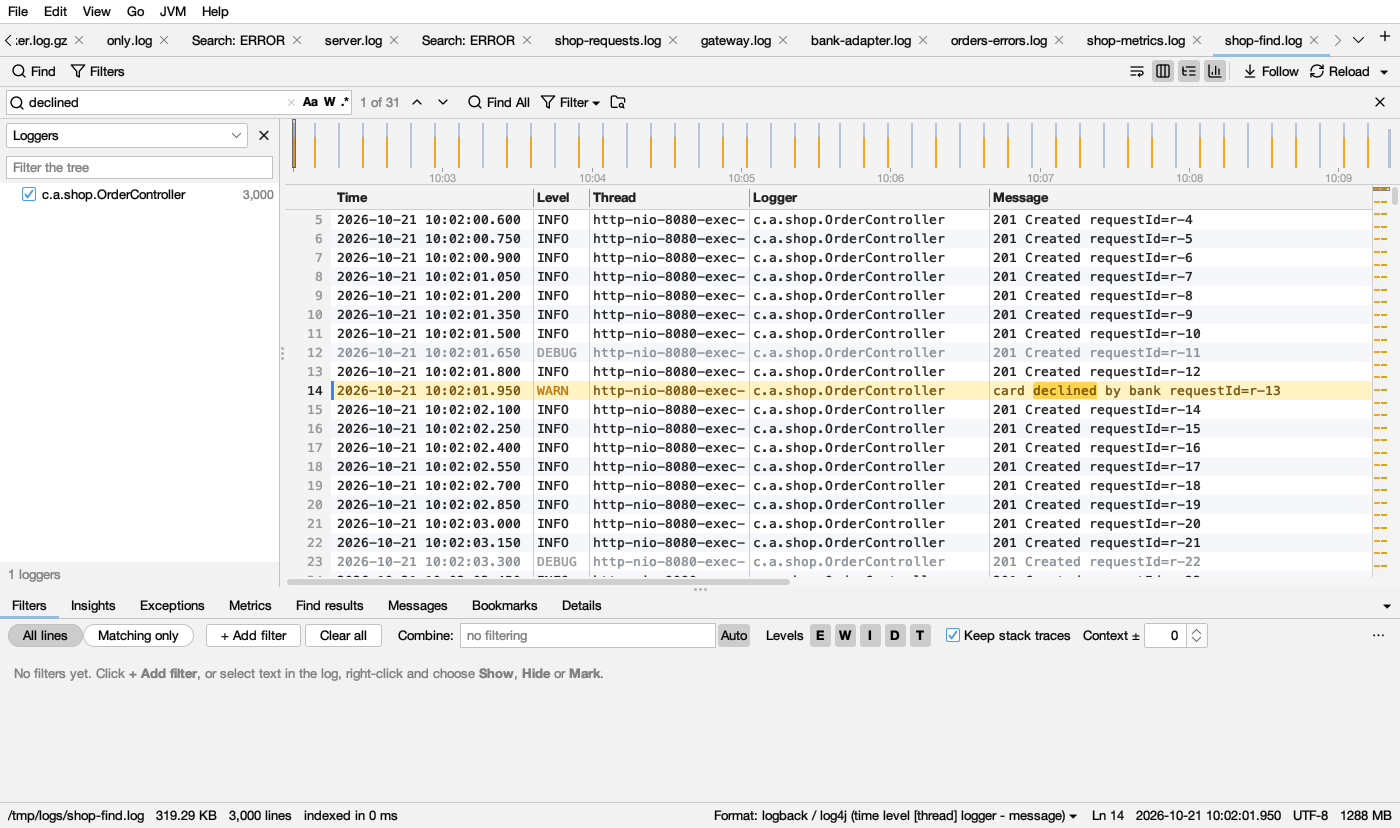
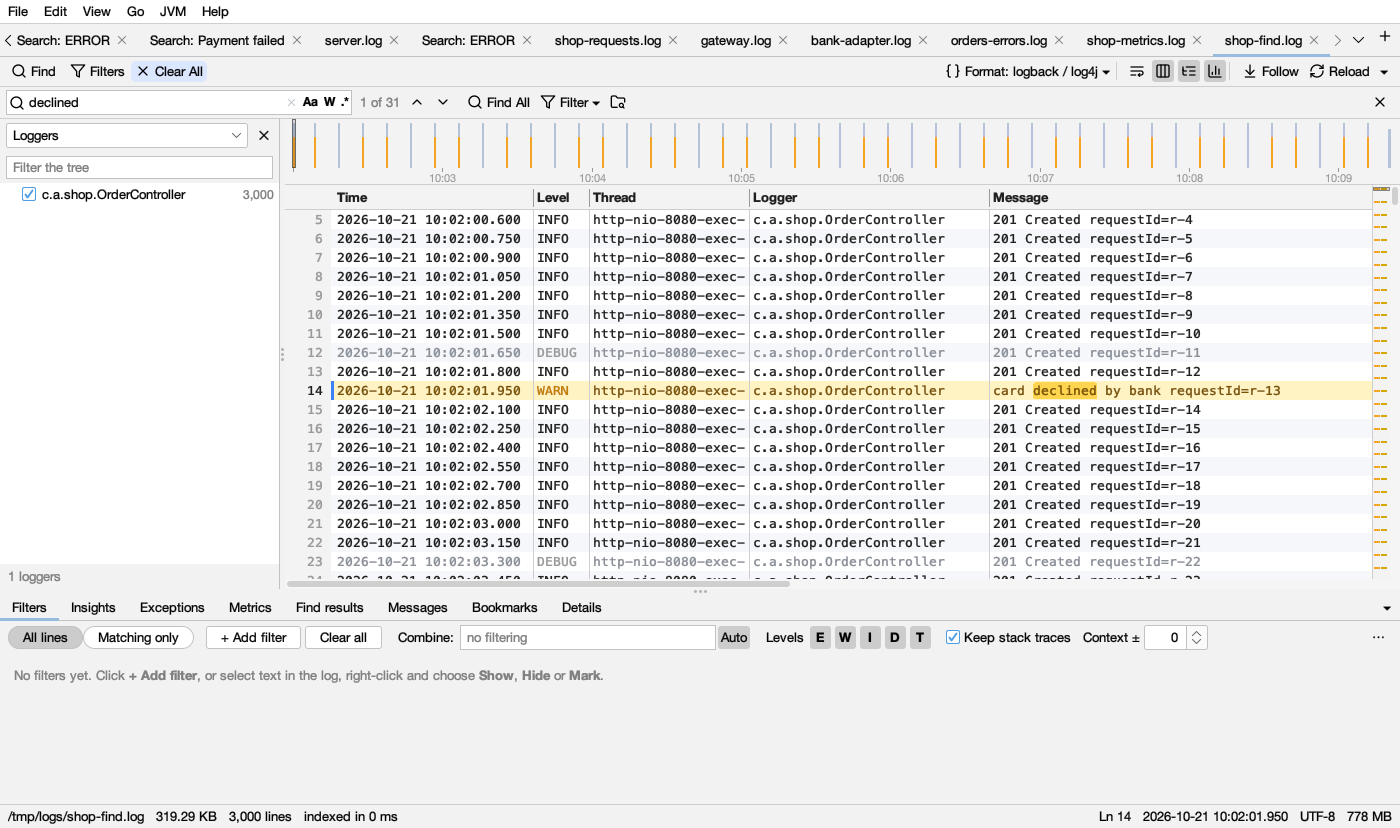
Guide, README and changelog: format in the log's bar, CSV header, column filters and metrics
Screenshots refreshed from the visual tests (the format button moved), plus
column-filters.png and csv-metrics.png.

diff --git a/README.md b/README.md
@@ -21,7 +21,7 @@
 - **Columns.** Time, level, thread, logger and message are parsed automatically. JSON logs and CSV files work too, with a pretty-printed details view.
 - **Your own log formats.** Drop a log file and Logsift works out its layout, or paste your log4j, logback, java.util.logging or Python logging setup (even a whole `logback.xml` or `log4j2.xml`: each layout in it becomes a format). A live preview shows how lines split into columns.
 - **Exceptions by root cause.** Java stack traces and Python tracebacks grouped by what went wrong and where in your own code: "60 × NullPointerException at PriceCalculator.discount", with the stack, what wrapped it, and each time it happened.
-- **Metrics from the messages.** How long things that start and end took ("Started job sync-7" … "Finished job sync-7"), the ones that never ended, and the numbers messages report (`placed in 345 ms`, `queue size=42`) as charts over time, with the slowest lines a click away.
+- **Metrics from the messages and columns.** How long things that start and end took ("Started job sync-7" … "Finished job sync-7"), the ones that never ended, the numbers messages report (`placed in 345 ms`, `queue size=42`) and columns of numbers (`duration_ms` in a CSV) as charts over time, with the slowest lines a click away.
 - **Follow a request.** Right-click a line with a trace or request ID (or select any text) → **Follow**: the request's lines in order, across threads, open logs or a whole folder (zips too), with the time between them and the longest wait marked.
 - **Tree of loggers.** Loggers (or threads, components, hosts) as a package tree beside the log, with line counts. Uncheck a branch to hide its lines, double-click one to see only it.
 - **Zips, .gz files and the web.** Drop a `.zip` and it opens as a tab with its folders and files (zips inside it too); open any of them as a log, with everything a log has, merge them by time, or search them all. A `.gz` opens directly. Open logs from web addresses, or download several and search them together.
@@ -199,7 +199,7 @@ When Logsift doesn't know a log's layout, the Columns view says so and offers **
 2. **Paste how your program logs:** a log4j, Log4j 2 or logback pattern such as `%d{HH:mm:ss.SSS} [%thread] %-5level %logger{36} - %msg%n`, a whole `logback.xml`, `log4j2.xml` or `log4j.properties`, a `log4j2.properties`, `.yaml` or `.json`, Spring Boot's layout, a Log4j 1.x XML config, a java.util.logging `logging.properties` (`SimpleFormatter.format`), or Python logging: a format such as `%(asctime)s %(levelname)s %(name)s: %(message)s`, a `logging.conf` or dictConfig (with `datefmt`), or `basicConfig(…)` in code. Dropping the config file works too. Properties the pattern uses (`${LOG_PATTERN}`, `${sys:PID}`, `${env:X:-default}`) are filled in from the same file. When the config has several appenders or formatters with different layouts, each becomes a format, named after its appender, and each log uses the one its lines fit.
 3. **Write the pattern** yourself: `{time} {level} [{thread}] {logger} - {message}`. Columns go in braces and everything else is matched as written. `{time}` takes a timestamp and `{level}` a level word (also `E`, `ERR`, `warning`…). `{*}` skips a part, and other columns take everything up to the next character. A regex with named groups like `(?<level>…)` works too.
 
-A preview shows sample lines split into columns, with the times as they are read. Lines that don't fit continue the entry above (stack traces). A format is used when most of a log's lines fit it, or always for the file names you give (`app*.log; *.trace`). The status bar shows the format each log is read with (**Format: …**). If Logsift picked the wrong one, click it (or use **View → Log Format**) to choose another for that file, which is remembered, or to show it as plain text. Levels in your format's level column drive the colors, the error marks and the **E W I D T** chips. Formats are saved in `~/.logsift/formats.properties`, so you can copy them to another computer.
+A preview shows sample lines split into columns, with the times as they are read. Lines that don't fit continue the entry above (stack traces). A format is used when most of a log's lines fit it, or always for the file names you give (`app*.log; *.trace`). The log's bar shows the format each log is read with (**Format: …▾**, on the right). If Logsift picked the wrong one, click it (or use **View → Log Format**) to choose another for that file, which is remembered, or to show it as plain text. Levels in your format's level column drive the colors, the error marks and the **E W I D T** chips. Formats are saved in `~/.logsift/formats.properties`, so you can copy them to another computer.
 
 ## Insights
 
@@ -231,6 +231,7 @@ The **Metrics** tab shows what the log measures, without any setup:
 
 - **Things that start and end:** message kinds that open and close something (*Started job sync-7* … *Finished job sync-7*, *Processing request r-12* … *Completed request r-12*, *Begin import* … *Import complete*) are found by their words. Their lines are matched by the value they share (the job, the request), or else by thread. For each: how many, the median, 95th percentile and longest time, and the ones that **never ended**, which are often what hung.
 - **Numbers in messages:** a number with a unit after it (`ms`, `s`, `MB`, `%`, `rows`) or a word like *took*, *size*, *latency* or *queue* before it is a measurement: *order … placed in **#** ms*, *queue size=**#***. Order numbers and IDs are not. Durations are in milliseconds and sizes in bytes, whatever unit each line used (`1.5s`, `300ms`).
+- **Columns:** in a CSV file, a JSON log or a layout with columns, a column of numbers is a measurement (`duration_ms`, `bytes`, the access log's `size`; units from the value or the name), and a column with a few values (`status`, `host`) gives how many rows have each value per minute (or per second, per hour, as fits the log).
 - Select one for a **chart over time**: every value as a dot (orange when far above the median), the 95th percentile as a line, and things that never ended as red marks along the top. Hover for a value, click a dot to go to its line. Beside it, the lines that never ended and the slowest or largest ones.
 - **Insights** reports what never ended (*1 job started and never ended*) and when a measurement was far above usual (*High: order … placed in # ms, 10:15:00 – 10:16:59 · median 4.1 s then, usually 125 ms*), with **Show these minutes** and **Show in Metrics**. For files over 512 MB this is worked out when the Metrics tab is opened.
 
@@ -416,7 +417,7 @@ Then: **Heap** (in use before and after each collection, with the heap size and 
 
 ## CSV files
 
-A `.csv` or `.tsv` file is read as a table: its header row names the columns and each row is split into them, by comma, semicolon, tab or `|` (whichever the file uses), with quoted fields (`"a, b"`, `""` for a quote) handled. Columns named like a time, level, thread, logger or message (`timestamp`, `severity`, `msg`, …) are used as such: the timeline uses the time column, and levels color the rows. Other columns keep their names and appear in the tree beside the log, where unchecking a value hides its rows. Files with other names are read as CSV when they clearly are one (a header of names, then rows with the same number of fields), or choose **CSV** in the status bar's format menu. A quoted field over several lines is shown as continuing its row.
+A `.csv` or `.tsv` file is read as a table: its header row names the columns and each row is split into them, by comma, semicolon, tab or `|` (whichever the file uses), with quoted fields (`"a, b"`, `""` for a quote) handled. Columns named like a time, level, thread, logger or message (`timestamp`, `severity`, `msg`, …) are used as such: the timeline uses the time column, and levels color the rows. Other columns keep their names and appear in the tree beside the log, where unchecking a value hides its rows. Files with other names are read as CSV when they clearly are one (a header of names, then rows with the same number of fields), or choose **CSV** in **Format: …▾** in the log's bar. A quoted field over several lines is shown as continuing its row. In the Columns view the header row isn't repeated as a row: its names are the column titles (line numbers stay those of the file). Right-click a value for **Show Only Rows Where Host = web-1** (a filter on that column), and the Metrics tab charts the columns of numbers and how many rows each host or status has over time.
 
 ## JSON logs
 
@@ -466,6 +467,7 @@ The **Filters** panel below the log holds any number of filters (up to 26). Each
 
 - a letter (A, B, C, …) for use in the formula
 - an action: **Show** keeps matching lines, **Hide** removes them, **Mark** only colors them
+- where to look: the whole line, or one column of the log's format (CSV, JSON lines, a layout); a column's value can **contain** the text, **=** be it, or be a number **>** above or **<** below it (`1.5 s` is more than `800 ms`)
 - the text to match, with the same `Aa` / `W` / `.*` options as Find
 - a line color, a live count of matching lines, and ▲ ▼ to step through its matches
 
@@ -479,7 +481,7 @@ The **Filters** panel below the log holds any number of filters (up to 26). Each
 
 **Clear All** in the log's bar (lit while anything is set) goes back to the whole log: it removes every filter, turns all levels back on, clears the time range and what the tree hides, and closes the find bar and the Find results. **Clear all** in Filters (next to + Add filter) clears only the filters. In Find results, **Close** removes the selected search, **Close all** removes every one, and Shift+Esc closes the selected search.
 
-Quick ways to add filters: select text in the log, right-click, then choose **Show / Hide / Mark lines with "…"**. Filter sets can be saved and loaded (the ⋯ menu), and filters keep working while the file grows.
+Quick ways to add filters: select text in the log, right-click, then choose **Show / Hide / Mark lines with "…"**; in the Columns view, right-click a value for **Show Only Rows Where Host = web-1** or **Hide Rows Where …**, or a column title for **Filter by …**. Filter sets can be saved and loaded (the ⋯ menu), and filters keep working while the file grows.
 
 **Several searches at once:** each Find All is added to the top of the Find results window and opens there, while earlier searches fold to a header line (“ERROR” — 1,234 lines) and stay available. Click a header (or its chevron) to fold or open it; with the keyboard, Enter, Left and Right do the same. **Fold all** / **Unfold all** do every search. Every search has its own color in the log and on the highlight bar. Running a search you already have moves it back to the top. F3 / Shift+F3 step through the selected search's hits.
 

diff --git a/docs/guide/log-view.md b/docs/guide/log-view.md
@@ -10,7 +10,7 @@ description: Lines and columns, level colours, line numbers and marks, the highl
 
 From top to bottom, a log tab has:
 
-- **The log's bar:** **Find**, **Filters**, **Clear All** and the chips of the filters that are on, on the left; the line count and the view buttons on the right.
+- **The log's bar:** **Find**, **Filters**, **Clear All** and the chips of the filters that are on, on the left; the line count, the format and the view buttons on the right.
 - **The [timeline](timeline.md):** how much was logged over time.
 - **The lines**, with line numbers on the left and the **highlight bar** on the right. A **tree of loggers** can sit on the left.
 - **The bottom panel** with its tabs: Filters, Insights, Exceptions, Metrics, Find results, Messages, Bookmarks, Details (and Request once you follow one). **Ctrl+J** (⌘J), the ▾ button, or a double-click on a tab folds or opens it.
@@ -49,7 +49,7 @@ In the **Columns** view the row keeps these colours, and the **Level** cell is c
 
 Drag to select. Double-click selects a word; triple-click, or a click on the line number, the whole line. Shift+click extends. **Ctrl+C** copies (with nothing selected, the current line). **Ctrl+A** selects all.
 
-Right-click a line for: Copy, **Bookmark This Line**, **Follow** its request ID, **Open … in Editor** (on a stack line), **Show Thread "…" in Threads**, **Show Only Lines of Thread "…"**, **Open the Heap Dump** (on an out-of-memory line); with text selected, **Find All**, **Show / Hide / Mark lines with "…"**.
+Right-click a line for: Copy, **Bookmark This Line**, **Follow** its request ID, **Open … in Editor** (on a stack line), **Show Thread "…" in Threads**, **Show Only Lines of Thread "…"**, **Open the Heap Dump** (on an out-of-memory line); with text selected, **Find All**, **Show / Hide / Mark lines with "…"**. In the Columns view, right-click a value for **Show Only Rows Where Host = web-1** and **Hide Rows Where Host = web-1** (see [Filters on a column](filters.md#filters-on-a-column)).
 
 ## The highlight bar
 
@@ -69,6 +69,7 @@ Right: the count (*1,234 of 50,000 lines*), then:
 
 | Button | Does |
 |---|---|
+| **Format: …▾** | How the lines are read, for example *Format: CSV ▾* or *Format: logback / log4j ▾*. Click it to choose another format for this file (it is remembered), **Plain text**, **New Format from This Log…** or **Edit Log Formats…**. The same list is in **View → Log Format**. In a narrow window it shows just the name (*CSV ▾*); hover it for the whole name |
 | Wrap | Wrap long lines (Alt+Z, ⌥Z) |
 | Columns | Show lines as columns (Ctrl+Shift+K) |
 | Tree | The tree of loggers (Ctrl+Shift+B) |
@@ -83,7 +84,7 @@ These apply to this log, and your last choice becomes the default for the next l
 
 Left: the file (or `sftp user@host:/path`, or the web address), its size, the number of lines and how fast it was indexed. Then, when it applies: *• 1.2 MB more on disk: Reload (F5) to see it*, *• the file was replaced on disk*, or the state of a remote connection (*⚡ …*). A blue button appears when a new version of Logsift is out.
 
-Right: **Format: …▾** (how lines are read; click it if it is wrong), *MATCHING ONLY*, the line number (*Ln 1,234*), the current line's time, *FOLLOW*, the text encoding, and the memory Logsift uses.
+Right: *MATCHING ONLY*, the line number (*Ln 1,234*), the current line's time, *FOLLOW*, the text encoding, and the memory Logsift uses.
 
 ## Columns
 
@@ -92,7 +93,8 @@ Right: **Format: …▾** (how lines are read; click it if it is wrong), *MATCHI
 ![Parsed columns with top messages below](../screenshots/columns-and-messages.png)
 
 - Drag a header edge to resize a column.
-- Right-click a header: **Count Values in …** (every value with its number of lines; double-click one, or **Show Only**, to see its lines, or **Hide** them), **Hide … Column**, tick columns on and off, **Show All Columns**. *N columns hidden ▾* at the right of the header shows which; hidden columns are remembered for each format.
+- Right-click a header: **Count Values in …** (every value with its number of lines; double-click one, or **Show Only**, to see its rows, or **Hide** them), **Filter by …** (a filter that looks only in that column, see [Filters on a column](filters.md#filters-on-a-column)), **Hide … Column**, tick columns on and off, **Show All Columns**.
+- Right-click a value: **Show Only Rows Where Host = web-1** or **Hide Rows Where Host = web-1**. *N columns hidden ▾* at the right of the header shows which; hidden columns are remembered for each format.
 - When Logsift doesn't know the layout, it says *"Logsift doesn't know this log's layout, so it can't show it as columns"* and offers **Define Its Format…** (see [Settings](settings.md#log-formats)).
 
 ## JSON logs
@@ -113,7 +115,11 @@ The **Details** tab shows the current entry in full (a line with its stack trace
 
 ## CSV files
 
-A `.csv` or `.tsv` file is read as a table: the header row names the columns, and rows are split by comma, semicolon, tab or `|`, with quoted fields handled. Columns named like a time, level, thread, logger or message (`timestamp`, `severity`, `msg`…) are used as such: the timeline uses the time column, and levels colour the rows. Other columns appear in the tree beside the log. Other files are read as CSV when they clearly are one, or choose **CSV** in the status bar's format menu.
+A `.csv` or `.tsv` file is read as a table: the header row names the columns, and rows are split by comma, semicolon, tab or `|`, with quoted fields handled. Columns named like a time, level, thread, logger or message (`timestamp`, `severity`, `msg`…) are used as such: the timeline uses the time column, and levels colour the rows. Other columns appear in the tree beside the log. Other files are read as CSV when they clearly are one, or choose **CSV** in **Format: …▾** in the log's bar.
+
+- In the Columns view the header row isn't shown as a row: its names are the column titles. Line numbers are those of the file, so the first row is line 2. Hover a title to see the name in the file when Logsift uses its own (*timestamp* is **Time**). The plain view shows the header line as it is.
+- Right-click a value to show only (or hide) the rows with it, or a column title for **Filter by …**: see [Filters on a column](filters.md#filters-on-a-column).
+- The [Metrics](metrics.md#columns) tab charts the columns of numbers, and how many rows each value of a column like *host* or *status* has over time.
 
 ![A CSV file from inside a zip, shown as columns, with its hosts in the tree](../screenshots/csv.png)
 

diff --git a/docs/guide/metrics.md b/docs/guide/metrics.md
@@ -1,7 +1,7 @@
 ---
 layout: guide
 title: Metrics
-description: The Metrics tab: how long things that start and end took, things that never ended, numbers in messages, and the chart's colours.
+description: The Metrics tab: how long things that start and end took, things that never ended, numbers in messages and columns, rows per minute, and the chart's colours.
 ---
 
 # Metrics
@@ -14,12 +14,25 @@ The **Metrics** tab (below the log) shows what the log measures, without any set
 
 - **Things that start and end:** message kinds that open and close something (*Started job sync-7* … *Finished job sync-7*, *Processing request r-12* … *Completed request r-12*) are found by their words. Lines are paired by the value they share (the job, the request), or else by thread. The list says which: *took (by its job)* or *took (by thread)*. Hover for the two messages.
 - **Numbers in messages:** a number with a unit after it (`ms`, `s`, `MB`, `%`, `rows`), or a word like *took*, *size*, *latency* or *queue* before it: *order … placed in **#** ms*, *queue size=**#***. Order numbers and IDs are not measurements. A message kind needs 20 lines or more. Durations are in milliseconds and sizes in bytes, whatever unit each line used.
+- **Columns** of a CSV file, a JSON log or a layout with columns (see below).
+
+## Columns
+
+When a log has columns, its columns are measured too:
+
+- **A column of numbers** (with a unit, or more than 12 different values) is a measurement: *duration_ms*, *bytes*, *latency*, the access log's *size*. The unit comes from the value (*7 ms*, *1.5 s*, *2 KB*) or from the column's name (`_ms`, `_s`, `_bytes`, `_kb`, `_pct`; *duration*, *latency*, *elapsed* and *took* are taken as milliseconds). Columns that number things rather than measure them are left out: IDs, ports, years, and numbers that only go up (a row number).
+- **A column with a few values** (2 to 12, such as *status* or *host*) gives, for each of its most frequent values, how many rows have it in each stretch of time: *Host = web-1*, *rows per minute*. The stretch fits the log: per second for a log of a minute, per hour for a day. This needs times in the log. At most two such columns, the ones with the fewest values.
+- Time, level, thread, logger and message columns are not measured this way; the message is still read for numbers (above).
+
+A column needs 20 rows or more. On big logs every n-th row is read, as for numbers in messages.
+
+![The Metrics of a CSV file: numbers in its messages, and rows per 10 seconds for each host](../screenshots/csv-metrics.png)
 
 ## The list
 
 | Column | Shows |
 |---|---|
-| **Measurement** | A timer icon for things that start and end, a chart icon for numbers. The **#** marks the measured part |
+| **Measurement** | A timer icon for things that start and end, a line icon for numbers in messages, a columns icon for a column of numbers, a bar icon for rows per stretch of time. The **#** marks the measured part |
 | **Count** | How many |
 | **Median** | Half are below this |
 | **95%** | 95 in 100 are below this |
@@ -44,8 +57,8 @@ Select a measurement for a chart over time. Hover a dot for its time and value; 
 
 ## Beside the chart
 
-The lines that never ended, then the slowest (or largest) ones: **Time**, **Value**, **Which**. Click one to go to its line.
+The lines that never ended, then the slowest (or largest) ones: **Time**, **Value**, **Which**. For rows per stretch of time, the busiest stretches (*12 rows*). Click one to go to its line (for a stretch, its first row with that value).
 
 ## In Insights
 
-[Insights](insights.md) reports what never ended (*1 job started and never ended*) and when a measurement was far above usual (*High: order … placed in # ms, 10:15:00 – 10:16:59*: the median of that stretch was 3 times the usual median or more), with **Show these minutes** and **Show in Metrics**. For files over 512 MB this is worked out when the Metrics tab is opened.
+[Insights](insights.md) reports what never ended (*1 job started and never ended*) and when a measurement (in a message or a column of numbers) was far above usual (*High: order … placed in # ms, 10:15:00 – 10:16:59*: the median of that stretch was 3 times the usual median or more), with **Show these minutes** and **Show in Metrics**. For files over 512 MB this is worked out when the Metrics tab is opened.

diff --git a/docs/guide/filters.md b/docs/guide/filters.md
@@ -13,6 +13,7 @@ Filters show, hide or colour lines. They keep working while the file grows.
 ## Adding a filter
 
 - Select text in the log, right-click → **Show / Hide / Mark lines with "…"**.
+- In the Columns view, right-click a value → **Show Only Rows Where Host = web-1** or **Hide Rows Where Host = web-1**, or right-click a column title → **Filter by …** (see [Filters on a column](#filters-on-a-column)).
 - In the find bar, **Filter ▾** → **Show Only Matching Lines**, **Hide Matching Lines** or **Color Matching Lines**.
 - In the **Filters** tab below the log, **+ Add filter**.
 
@@ -25,6 +26,8 @@ Each filter is a row:
 | Checkbox | Turns the filter on or off |
 | **A**, **B**, **C** … | Its letter, for the formula. The circle has the filter's colour |
 | **Show** / **Hide** / **Mark** | **Show** keeps matching lines, **Hide** removes them, **Mark** only colours them |
+| **Line** / a column | Where to look: the whole line, or one column of the log's format. Shown when the log's format has columns |
+| **contains** / **=** / **>** / **<** | For a column: how its value is compared (below) |
 | Text, with **Aa** **W** **.\*** | What to match: match case, whole word, regular expression. A wrong regular expression gets a red outline |
 | Colour | The colour of its lines (below), or *No color* |
 | Count | How many lines match |
@@ -48,6 +51,26 @@ Up to 26 filters (A to Z). A new filter takes the colour used least; a Hide filt
 | Red | <span class="sw" style="background:#FAD0D0"></span> | <span class="sw" style="background:#552326"></span> | <span class="sw" style="background:#DC2626"></span> |
 
 A filter's colour replaces the [level colour](log-view.md#level-colours) on the lines it matches.
+
+## Filters on a column
+
+A filter can look in one column instead of the whole line: pick the column in the list after **Show** / **Hide** / **Mark** (it says **Line** for the whole line). It works for every log Logsift shows as columns: CSV files, JSON logs, the built-in layouts and your own formats.
+
+![Two filters on columns of a CSV file: Host = web-3 and User contains u1, as chips and in the Filters tab](../screenshots/column-filters.png)
+
+| Compare | Matches rows whose value |
+|---|---|
+| **contains** | contains the text. **Aa**, **W** and **.\*** work as usual |
+| **=** | is the text, all of it: *web-1* is not *web-10* |
+| **>** / **<** | is a number above or below the one you type. Units count: *1.5 s* is more than *800 ms*, and *2 KB* more than *900* |
+
+The quick ways:
+
+- Right-click a value in the Columns view → **Show Only Rows Where Host = web-1** or **Hide Rows Where Host = web-1**. This adds a **=** filter and switches to Matching only.
+- Right-click a column title → **Filter by …** adds an empty filter on that column in the Filters tab, ready for the text.
+- **Count Values in …** (right-click a column title): **Show Only** and **Hide** add a **=** filter on that column too.
+
+A column filter shows as a chip like *Show: Host = web-1*. Lines that aren't rows (stack traces, a CSV's header row) don't match it themselves; with **Keep stack traces** they go with their entry.
 
 ## Combining filters
 
@@ -74,7 +97,7 @@ The **E W I D T** buttons show only some levels, together with your other filter
 
 ## Chips
 
-Filters that are on show as **chips** in the log's bar: *Show: ERROR 65,529*, *Hide: …*, *Color: …* (a Mark filter), with a dot in the filter's colour and the number of lines.
+Filters that are on show as **chips** in the log's bar: *Show: ERROR 65,529*, *Hide: …*, *Color: …* (a Mark filter), *Show: Host = web-1* (a [filter on a column](#filters-on-a-column)), with a dot in the filter's colour and the number of lines.
 
 - **Click** a chip to turn its filter off or on. An off chip is gray, with a dashed outline.
 - **✕** removes it.

diff --git a/CHANGELOG.md b/CHANGELOG.md
@@ -1,5 +1,12 @@
 # Changelog
 
+## Unreleased
+
+- **Format in the log's bar:** **Format: CSV ▾** (or whichever format the log is read with) moved from the status bar to the log's bar, next to the view buttons. Same list: choose another format for this file, **Plain text**, or make a new one. In a narrow window it shows just the name (*CSV ▾*).
+- **No double header in CSV files:** in the Columns view, a CSV's header row is no longer shown as a row under the column titles that already name it, whether the file was detected as CSV or CSV was chosen by hand. Line numbers stay those of the file (the first row is line 2). Hover a column title to see its name in the file when Logsift renamed it (*timestamp* is **Time**).
+- **Filters on a column:** a filter can look in one column instead of the whole line: **contains**, **=** (the whole value), or **>** and **<** for numbers (*1.5 s* is more than *800 ms*). Right-click a value in the Columns view for **Show Only Rows Where Host = web-1** or **Hide Rows Where …**, or a column title for **Filter by …**; in the Filters tab, pick the column after Show / Hide / Mark. Works for CSV files, JSON logs, the built-in layouts and your own formats; such filters show as chips like *Show: Host = web-1*. **Count Values** → **Show Only** / **Hide** now filter on that column too.
+- **Metrics for CSV files and other columns:** a column of numbers is a measurement over time (*duration_ms*, *bytes*, the access log's *size*; units from the value or the column's name), and a column with a few values (*status*, *host*) shows how many rows have each value per minute (or per second, per hour). Numbers in a CSV's messages (*Request … took # ms*) are found too: they were missed before.
+
 ## 1.3.0
 
 - **Heap dumps check the room first:** before the JVM writes a heap dump on its machine (over SSH, or for a JVM on this computer), Logsift compares the heap in use with the free space there. A folder without room, or a `/tmp` in memory, is refused before anything is written, and Logsift asks for another folder on that machine. Heap dumps and histograms of big heaps get time to finish (an hour, a quarter of an hour) instead of failing while the JVM is still writing.

diff --git a/docs/guide/troubleshooting.md b/docs/guide/troubleshooting.md
@@ -16,9 +16,9 @@ description: Messages you may see in Logsift, what they mean, and what to do.
 
 **The Reload button turned amber: *Reload (+1.2 MB)* or *Reload (file replaced)*.** The file changed on disk and Reload Automatically is off. Press **F5**, or turn on **Reload ▾ → Reload Automatically** (Follow turns it on too).
 
-**The log has no colours, no timeline or no columns.** Logsift doesn't know its layout. Click **Format: …** in the status bar to pick one, or **Define Its Format…** (see [Settings](settings.md#log-formats)). Level colours in the plain view need the words ERROR, WARN and so on in capitals; your own format's level column works with any spelling.
+**The log has no colours, no timeline or no columns.** Logsift doesn't know its layout. Click **Format: …▾** in the log's bar to pick one, or **Define Its Format…** (see [Settings](settings.md#log-formats)). Level colours in the plain view need the words ERROR, WARN and so on in capitals; your own format's level column works with any spelling.
 
-**Logsift picked the wrong format.** Click **Format: …▾** in the status bar and choose another for that file (it is remembered), or **Plain text**.
+**Logsift picked the wrong format.** Click **Format: …▾** in the log's bar and choose another for that file (it is remembered), or **Plain text**.
 
 **Odd characters (Ã©, �).** The file isn't in the encoding Logsift detected. Use **View → Encoding**, or set **Text that isn't UTF-8** in [Settings](settings.md).
 

diff --git a/docs/guide/settings.md b/docs/guide/settings.md
@@ -32,7 +32,7 @@ When Logsift doesn't know a log's layout, the Columns view says so and offers **
 
 Each format has a **Name**, a **Line pattern**, a **Time format** (empty for any common timestamp), and **Always use for** (file names like `app*.log; *.trace`). A preview shows sample lines split into columns.
 
-A format is used when most of a log's lines fit it, or always for the file names you give. The status bar shows the format each log is read with (**Format: …▾**); click it to choose another for that file, or **Plain text**. Levels in your format's level column drive the colours, the error marks and the E W I D T buttons.
+A format is used when most of a log's lines fit it, or always for the file names you give. The log's bar shows the format each log is read with (**Format: …▾**, on the right); click it to choose another for that file, or **Plain text**. Levels in your format's level column drive the colours, the error marks and the E W I D T buttons.
 
 Formats are saved in `~/.logsift/formats.properties`; copy it to use them on another computer.
 
